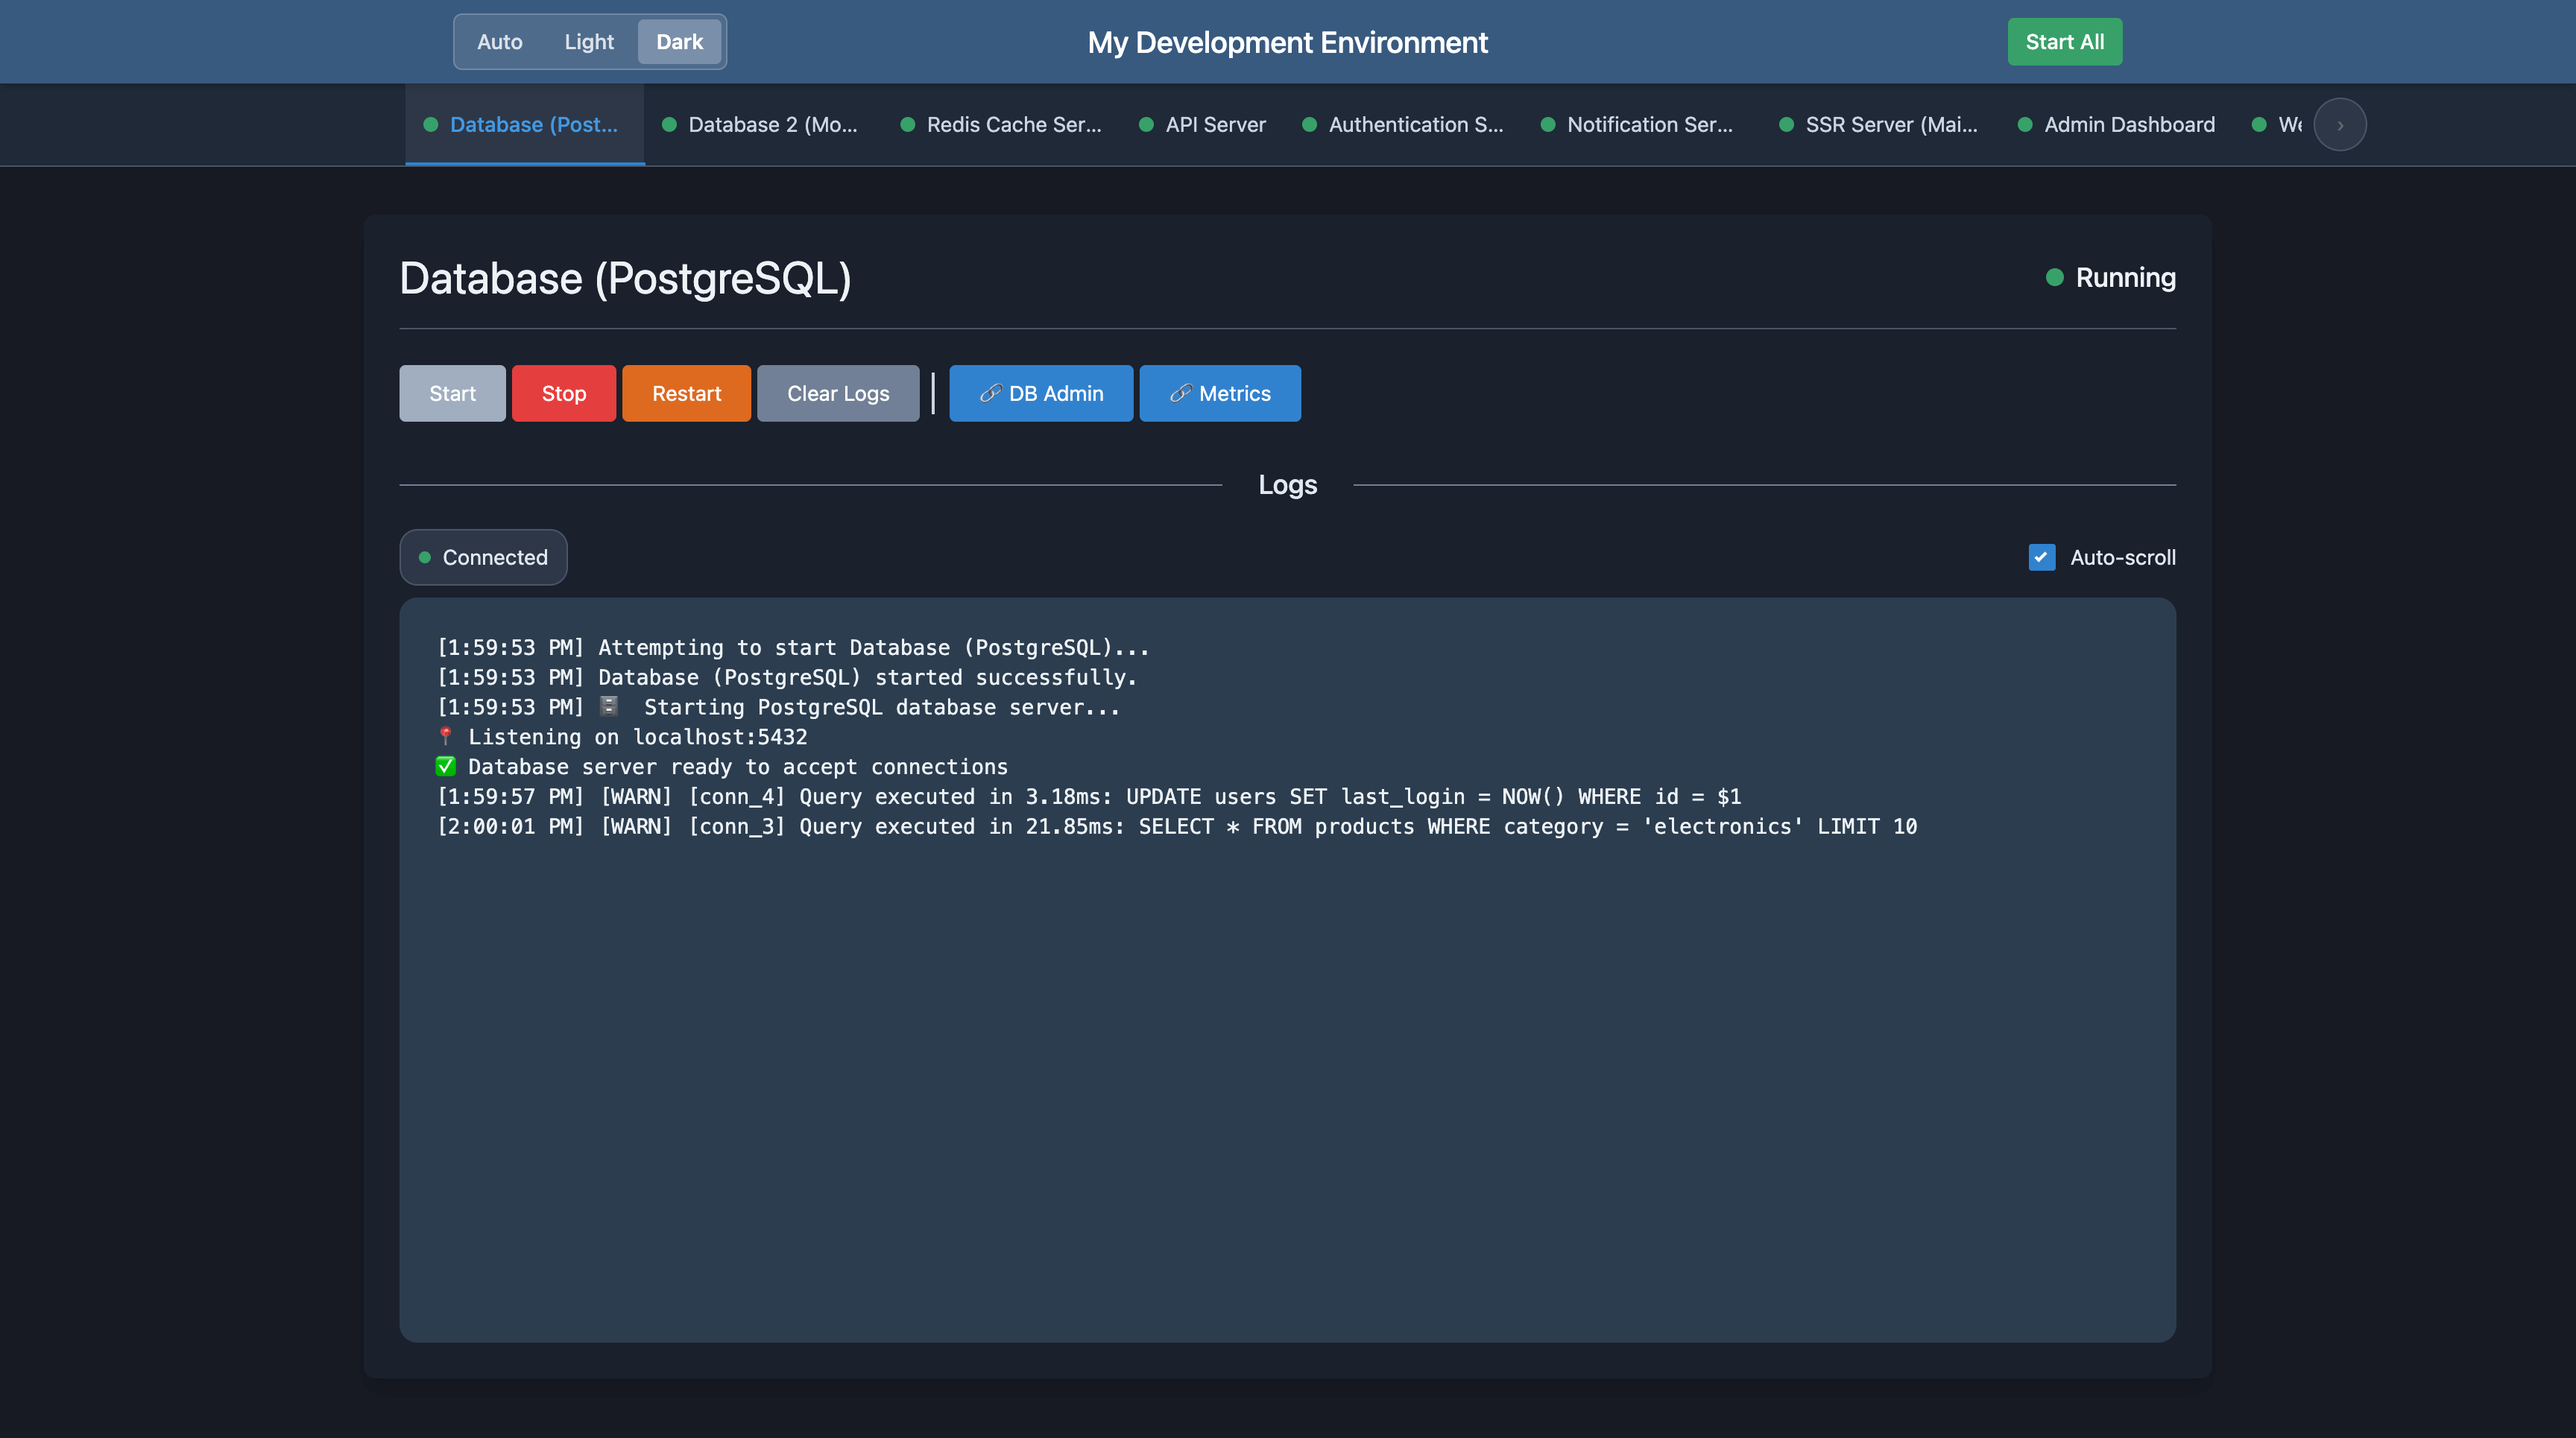
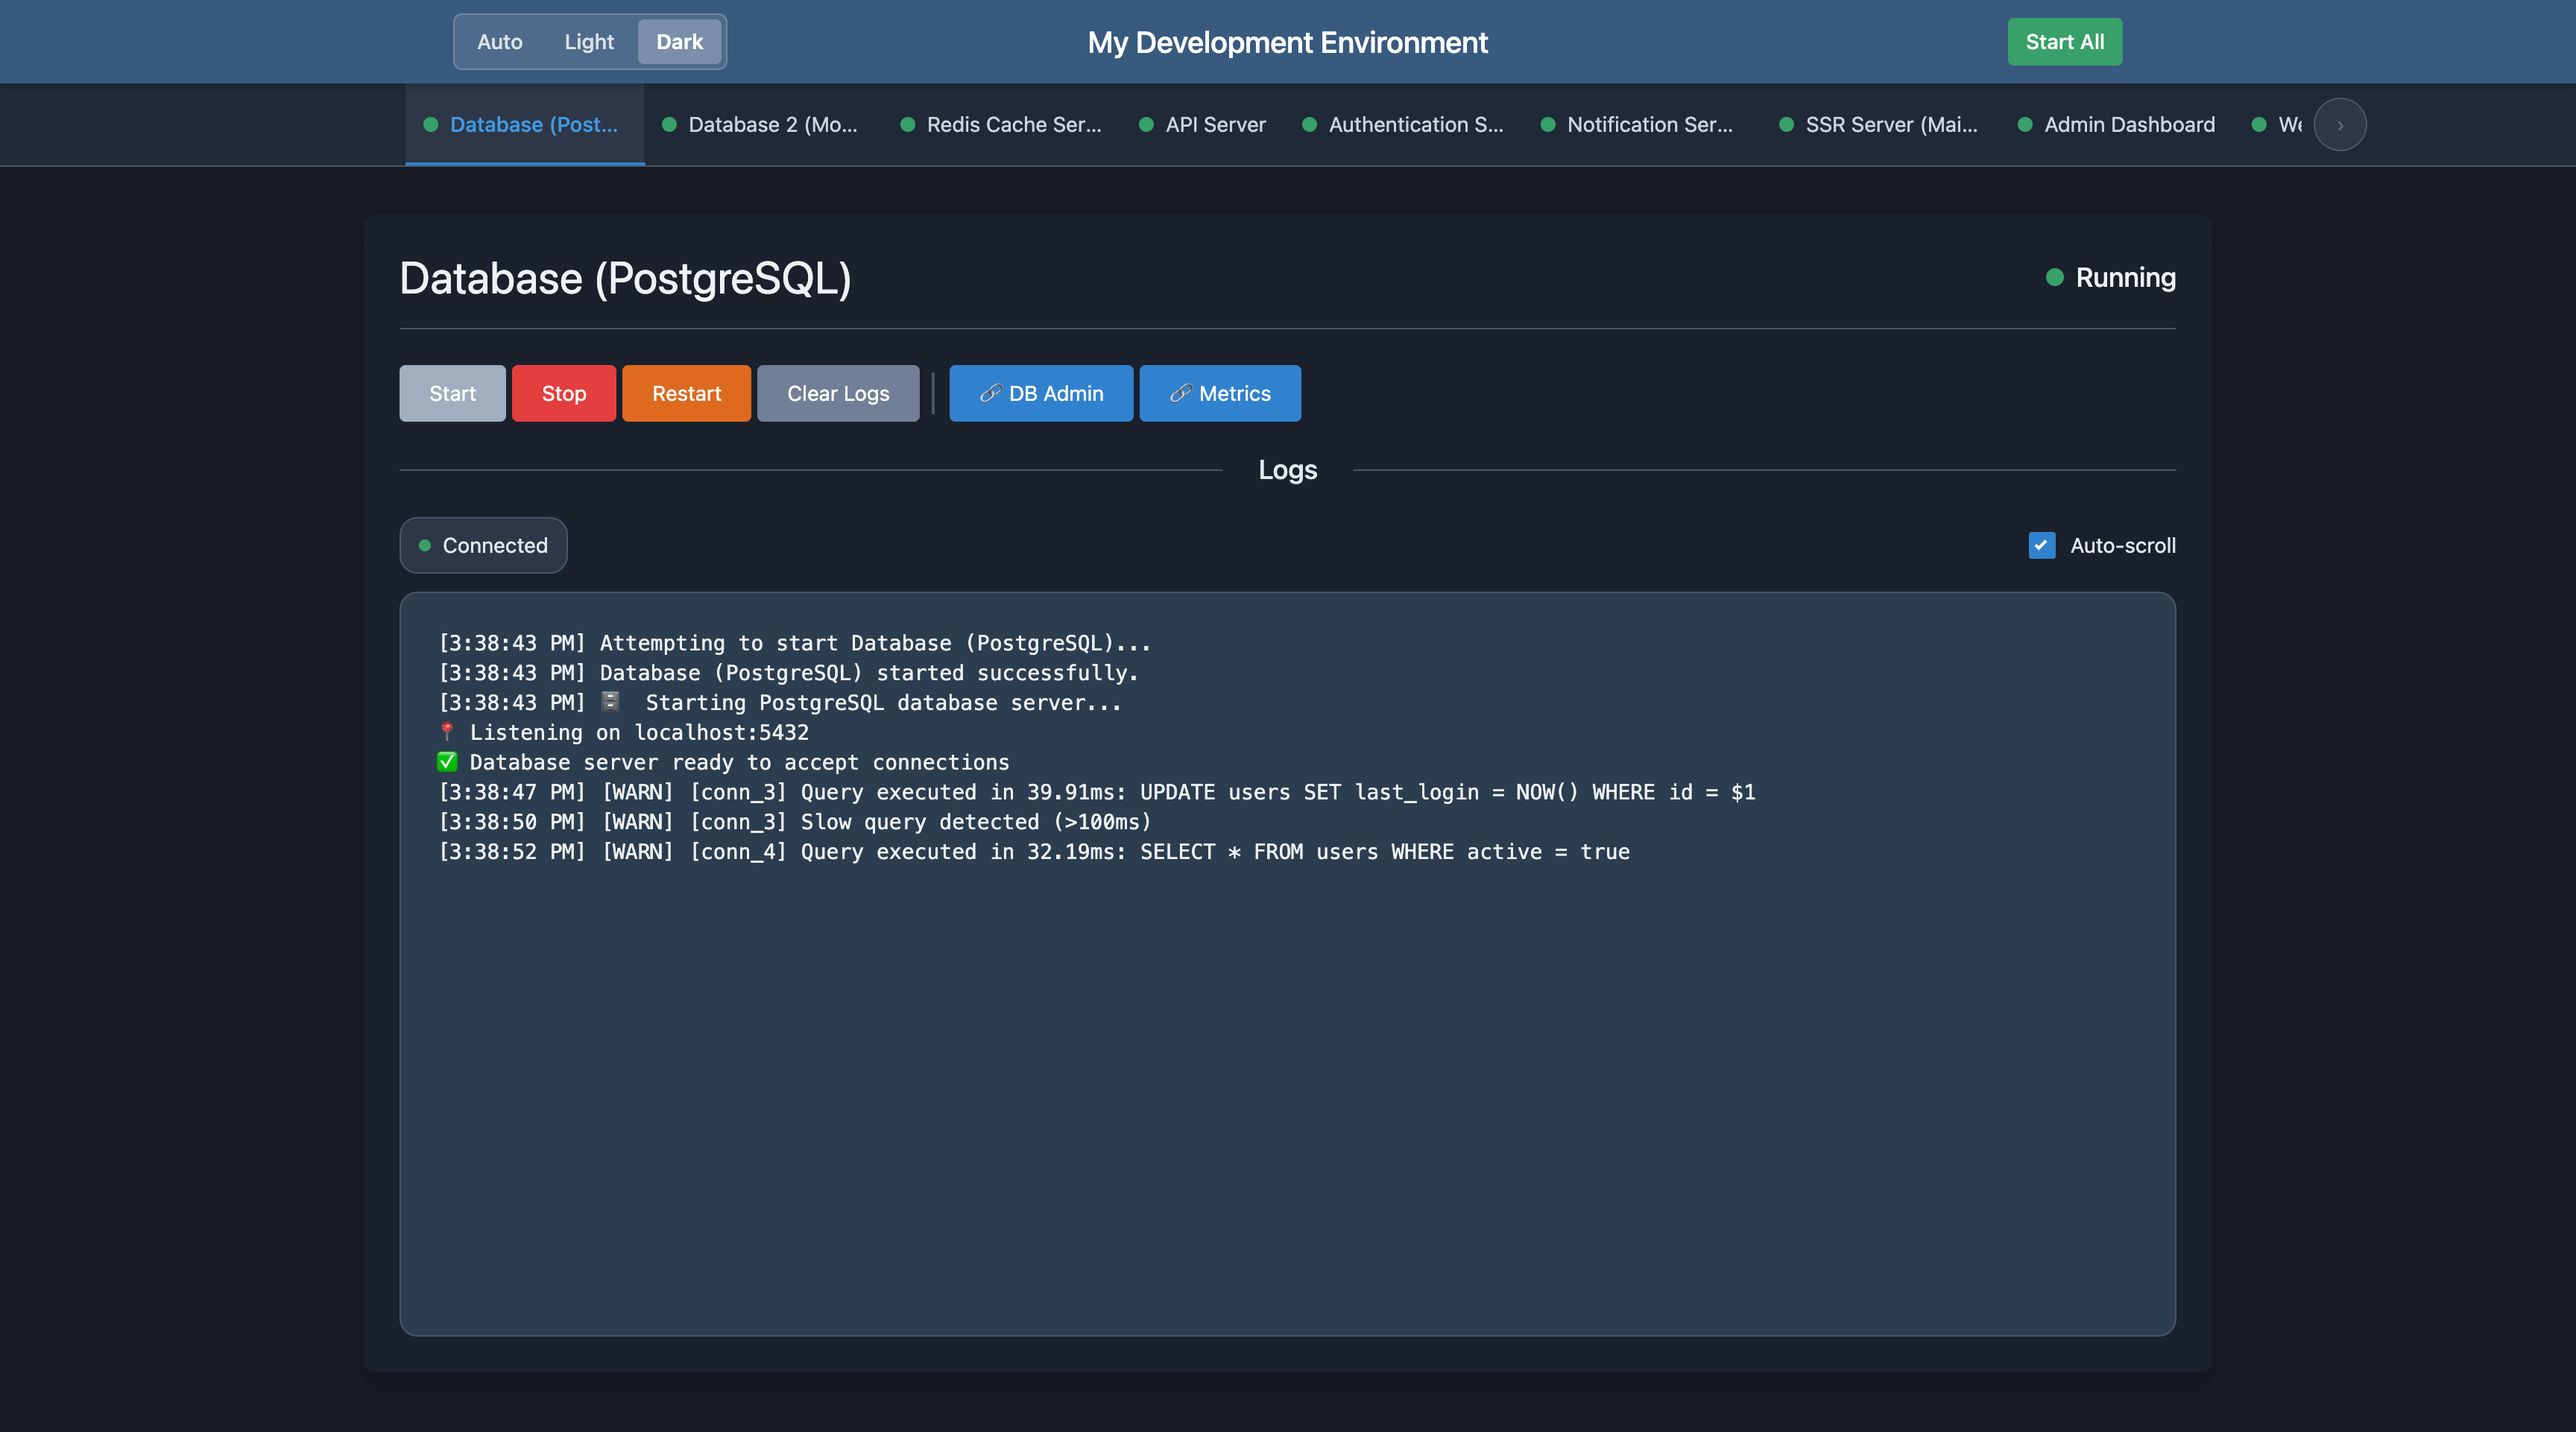
Release version 0.0.5 with enhancements and fixes
- Fixed macOS trackpad scrolling issue, preventing phantom scroll arrows with only 3 tabs.
- Added dynamic overflow control for tab navigation to improve user experience.
- Introduced a minimal tabs demo for testing non-scrolling behavior.
- Improved scroll detection to reduce false positives in trackpad scrolling.
- Standardized visual elements for consistency across light and dark modes, including border colors and spacing adjustments.

diff --git a/scripts/demo-minimal-tabs.ts b/scripts/demo-minimal-tabs.ts
@@ -1,0 +1,84 @@
+/**
+ * Dev Services Dashboard Demo - Minimal Tabs (No Scroll)
+ *
+ * This demo showcases the Dev Services Dashboard with only 3 services
+ * to test tab navigation behavior when there's no overflow/scrolling needed.
+ * Perfect for testing the macOS trackpad scrolling fix!
+ */
+
+import {
+  startDevServicesDashboard,
+  type UserServiceConfig,
+  createConsoleLogger,
+} from "../src/backend/index";
+
+console.log("🎬 Starting Dev Services Dashboard Demo - Minimal Tabs...");
+console.log(
+  "📖 Testing tab navigation with only 3 services (no scroll needed)",
+);
+console.log("🔧 Perfect for testing macOS trackpad scrolling behavior!");
+console.log("");
+
+const services: UserServiceConfig[] = [
+  {
+    id: "db",
+    name: "Database (PostgreSQL)",
+    command: ["bun", "run", "scripts/demo-servers/db-server.ts"],
+    webLinks: [
+      { label: "DB Admin", url: "http://localhost:5432/admin" },
+      { label: "Metrics", url: "http://localhost:5432/metrics" },
+    ],
+  },
+  {
+    id: "api",
+    name: "API Server",
+    command: ["bun", "run", "scripts/demo-servers/api-server.ts"],
+    env: { NODE_ENV: "development" },
+    webLinks: [
+      { label: "API Docs", url: "http://localhost:3001/docs" },
+      { label: "Health Check", url: "http://localhost:3001/health" },
+    ],
+  },
+  {
+    id: "ssr",
+    name: "SSR Server (Main Website)",
+    command: ["bun", "run", "scripts/demo-servers/ssr-server.ts"],
+    env: { NODE_ENV: "development" },
+    webLinks: [
+      { label: "Website", url: "http://localhost:3000" },
+      { label: "Dev Tools", url: "http://localhost:3000/__dev" },
+    ],
+  },
+];
+
+// Explicitly use the console logger
+const demoLogger = createConsoleLogger(true);
+
+// Start the Dev Services Dashboard
+startDevServicesDashboard({
+  port: 4000,
+  hostname: "localhost",
+  maxLogLines: 200,
+  dashboardName: "Example Inc. Dev Services Dashboard",
+  services,
+  logger: demoLogger,
+});
+
+console.log("");
+console.log("🎉 Minimal Tabs Demo started!");
+console.log("📍 Open your browser to: http://localhost:4000");
+console.log("");
+console.log("🔧 Demo Features:");
+console.log("  • Only 3 services - no tab scrolling needed");
+console.log("  • Perfect for testing macOS trackpad scroll behavior");
+console.log("  • Scroll arrows should NOT appear with trackpad scrolling");
+console.log("  • Database, API, and SSR services");
+console.log("");
+console.log("💡 Test:");
+console.log(
+  "  • Try scrolling with macOS trackpad - arrows should stay hidden",
+);
+console.log("  • Resize browser window to test responsive behavior");
+console.log("  • Switch between the 3 service tabs");
+console.log("");
+console.log("Press Ctrl+C to stop the demo");

diff --git a/src/frontend-react/src/index.css b/src/frontend-react/src/index.css
@@ -204,7 +204,8 @@ header {
 }
 
 .tabs-left {
-  @apply flex overflow-x-auto h-full whitespace-nowrap relative;
+  @apply flex h-full whitespace-nowrap relative;
+  /* overflow-x is controlled dynamically by React component */
   scrollbar-width: none; /* For Firefox */
   -ms-overflow-style: none; /* For IE and Edge */
   scroll-behavior: smooth; /* Smooth scrolling for arrows */
@@ -391,7 +392,7 @@ header {
 }
 
 .service-header {
-  @apply flex justify-between items-center mb-6 pb-4 border-b border-gray-200 dark:border-gray-600 flex-shrink-0;
+  @apply flex justify-between items-center mb-6 pb-4 border-b border-gray-300 dark:border-gray-600 flex-shrink-0;
 }
 
 /* Service content wrapper to allow for flexible height */
@@ -404,7 +405,7 @@ header {
 }
 
 .logs-area {
-  @apply bg-secondary-800 text-gray-100 font-mono text-sm px-6 py-6 rounded-xl overflow-x-auto whitespace-pre-wrap break-all min-h-300 max-h-500 h-500 overflow-y-auto flex-grow-0;
+  @apply bg-secondary-800 text-gray-100 font-mono text-sm px-6 py-6 rounded-xl border border-gray-300 dark:border-gray-600 overflow-x-auto whitespace-pre-wrap break-all min-h-300 max-h-500 h-500 overflow-y-auto flex-grow-0;
 }
 
 .service-title {
@@ -439,7 +440,7 @@ header {
 }
 
 .controls {
-  @apply mb-6 flex items-center flex-wrap gap-1;
+  @apply mb-4 flex items-center flex-wrap gap-1;
 }
 
 .controls button {
@@ -460,7 +461,7 @@ header {
 }
 
 .controls button[id$="-weblink-0"]::before {
-  @apply content-[''] absolute -left-3 top-1/2 -translate-y-1/2 h-7 w-0.5 bg-gray-300;
+  @apply content-[''] absolute -left-3 top-1/2 -translate-y-1/2 h-7 w-0.5 bg-gray-300 dark:bg-gray-600;
 }
 
 /* Mobile adjustments for controls */
@@ -487,11 +488,11 @@ header {
 }
 
 .logs-header-divider {
-  @apply relative flex items-center justify-center py-1 mb-1;
+  @apply relative flex items-center justify-center py-0.5 mb-2;
 }
 
 .logs-header-divider::before {
-  @apply content-[''] absolute left-0 top-1/2 h-px bg-gray-400 dark:bg-gray-500 w-full;
+  @apply content-[''] absolute left-0 top-1/2 h-px bg-gray-300 dark:bg-gray-600 w-full;
 }
 
 .logs-header-divider h3 {
@@ -501,7 +502,7 @@ header {
 }
 
 .log-status-bar {
-  @apply grid grid-cols-[75%_25%] items-center mb-2 w-full;
+  @apply grid grid-cols-[75%_25%] items-center mb-3 w-full;
 }
 
 .auto-scroll-toggle {

diff --git a/src/frontend-react/src/components/TabNavigation.tsx b/src/frontend-react/src/components/TabNavigation.tsx
@@ -18,14 +18,39 @@ function TabNavigation({
 }: TabNavigationProps) {
   const [showLeftArrow, setShowLeftArrow] = useState(false);
   const [showRightArrow, setShowRightArrow] = useState(false);
+  const [needsScroll, setNeedsScroll] = useState(false);
   const tabsRef = useRef<HTMLDivElement>(null);
 
   // Check if scroll arrows are needed
   const checkScrollArrows = () => {
     if (tabsRef.current) {
       const { scrollLeft, scrollWidth, clientWidth } = tabsRef.current;
-      setShowLeftArrow(scrollLeft > 0);
-      setShowRightArrow(scrollLeft < scrollWidth - clientWidth - 1);
+
+      // Simple threshold to prevent trackpad micro-scrolling false positives
+      const scrollThreshold = 10;
+      const hasOverflow = scrollWidth > clientWidth + scrollThreshold;
+
+      // Update scroll state for CSS overflow control
+      // Note: Browsers seem to treat any element with overflow:auto as scrollable, even with no actual overflow.
+      // This allows macOS trackpad to trigger phantom scroll events and show false scroll arrows.
+      // When there are only 3 tabs, there's no real overflow but the system still thinks it's scrollable.
+      // Solution: Dynamically toggle overflow-x between 'hidden' (no scroll) and 'auto' (scrollable)
+      // based on actual content overflow, preventing phantom scrolling entirely.
+      // For the ghost of Steve Jobs - even he couldn't have predicted this trackpad chaos! 👻
+      setNeedsScroll(hasOverflow);
+
+      // Only show arrows if there's actual overflow
+      if (!hasOverflow) {
+        setShowLeftArrow(false);
+        setShowRightArrow(false);
+        return;
+      }
+
+      // Show arrows based on scroll position with threshold
+      setShowLeftArrow(scrollLeft > scrollThreshold);
+      setShowRightArrow(
+        scrollLeft < scrollWidth - clientWidth - scrollThreshold,
+      );
     }
   };
 
@@ -94,6 +119,9 @@ function TabNavigation({
             role="tablist"
             ref={tabsRef}
             onScroll={checkScrollArrows}
+            style={{
+              overflowX: needsScroll ? "auto" : "hidden",
+            }}
           >
             {services.map((service) => {
               const status = serviceStatuses[service.id]?.status || "stopped";

diff --git a/changelog.md b/changelog.md
@@ -6,6 +6,7 @@
 - [0.0.2 (June 7, 2025)](#002-june-7-2025)
 - [0.0.3 (June 8, 2025)](#003-june-8-2025)
 - [0.0.4 (June 8, 2025)](#004-june-8-2025)
+- [0.0.5 (June 8, 2025)](#005-june-8-2025)
 
 <!-- tocstop -->
 
@@ -29,3 +30,14 @@
 ## 0.0.4 (June 8, 2025)
 
 - Version bump to update docs on NPM after better setup guide
+
+## 0.0.5 (June 8, 2025)
+
+- Fixed macOS trackpad scrolling issue where phantom scroll arrows would appear even with only 3 tabs
+- Added dynamic overflow control: `overflow-x: hidden` when no scrolling needed, `overflow-x: auto` when scrolling required
+- Added minimal tabs demo (`bun run demo-minimal-tabs`) for testing non-scrolling tab behavior
+- Improved scroll detection with 10px threshold to prevent trackpad micro-scrolling false positives
+- Visual consistency improvements: Standardized border colors and spacing across light/dark modes
+  - Unified border colors to use `gray-300` (light) and `gray-600` (dark) for service headers, button separators, logs dividers, and logs area
+  - Added consistent border styling to logs area for better visual definition
+  - Improved spacing balance around logs section divider and controls for better visual hierarchy

diff --git a/README.md b/README.md
@@ -1,4 +1,4 @@
-# Dev Services Dashboard v0.0.4
+# Dev Services Dashboard v0.0.5
 
 [![npm version](https://badge.fury.io/js/dev-services-dashboard.svg)](https://badge.fury.io/js/dev-services-dashboard)
 
@@ -312,6 +312,9 @@ bun install
 
 # Run the demo (automatically builds frontend bundle)
 bun run demo
+
+# Or run the minimal tabs demo (only 3 services, perfect for testing non-scrolling tab behavior)
+bun run demo-minimal-tabs
 ```
 
 The demo includes simulated services that generate realistic logs:
